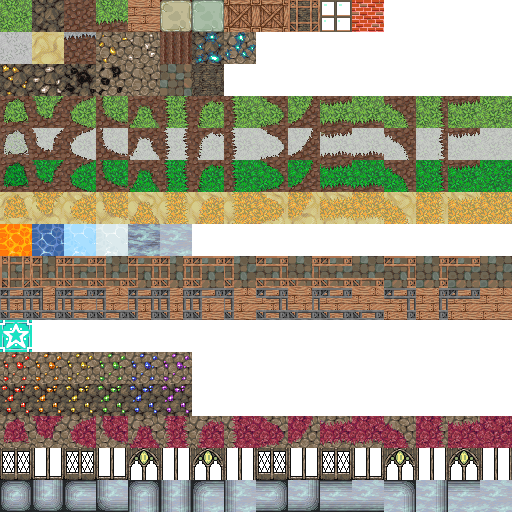
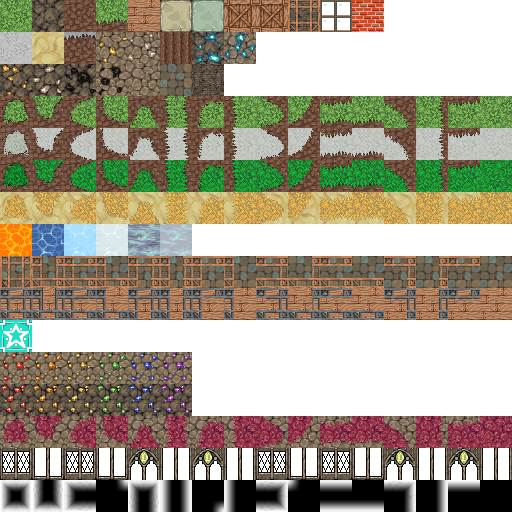
Texture and fade applied

Changed region(s): [[0.0, 0.9375, 1.0, 1.0]]

diff --git a/DwarfCorp/DwarfCorpXNA/Graphics/Primitives/VoxelListPrimitive.cs b/DwarfCorp/DwarfCorpXNA/Graphics/Primitives/VoxelListPrimitive.cs
@@ -222,19 +222,24 @@ namespace DwarfCorp
             if ((v.IsExplored && v.IsEmpty) || !v.IsVisible) return;
 
             var primitive = VoxelLibrary.GetPrimitive(v.Type);
+            BoxPrimitive secondaryPrimitive = null;
             if (v.IsExplored && primitive == null) return;
 
             if (!v.IsExplored)
-                primitive = BedrockModel;
+                secondaryPrimitive = VoxelLibrary.GetPrimitive("FogOfWarFade");
+
+            if (primitive == null) primitive = BedrockModel;
 
             var tint = v.Type.Tint;
 
             var uvs = primitive.UVs;
+            BoxPrimitive.BoxTextureCoords secondaryUvs = null;
 
             if (v.Type.HasTransitionTextures && v.IsExplored)
-            {
                 uvs = ComputeTransitionTexture(new VoxelHandle(v.Chunk.Manager.ChunkData, v.Coordinate));
-            }
+
+            if (secondaryPrimitive != null)
+                secondaryUvs = ComputeFOWTransitionTexture(v);
 
             for (int i = 0; i < 6; i++)
             {
@@ -284,7 +289,7 @@ namespace DwarfCorp
                 }
 
                 bool flippedQuad = AmbientScratchSpace[0] + AmbientScratchSpace[2] >
-                                   AmbientScratchSpace[1] + AmbientScratchSpace[3];
+                                  AmbientScratchSpace[1] + AmbientScratchSpace[3];
 
                 for (int idx = faceDescriptor.IndexOffset; idx < faceDescriptor.IndexCount +
                     faceDescriptor.IndexOffset; idx++)
@@ -295,6 +300,46 @@ namespace DwarfCorp
                     ushort offset0 = flippedQuad ? primitive.FlippedIndexes[faceDescriptor.IndexOffset] : primitive.Indexes[faceDescriptor.IndexOffset];
                     Indicies[IndexCount] = (ushort)(indexOffset + offset - offset0);
                     IndexCount++;
+                }
+
+                if (secondaryPrimitive != null)
+                {
+                    var secondaryFaceDescriptor = secondaryPrimitive.GetFace(face);
+                    var secondaryIndexOffset = VertexCount;
+
+                    for (int faceVertex = 0; faceVertex < faceDescriptor.VertexCount; faceVertex++)
+                    {
+                        var vertex = secondaryPrimitive.Vertices[secondaryFaceDescriptor.VertexOffset + faceVertex];
+                        var voxelVertex = secondaryPrimitive.Deltas[secondaryFaceDescriptor.VertexOffset + faceVertex];
+
+                        var rampOffset = Vector3.Zero;
+                        if (v.Type.CanRamp && ShouldRamp(voxelVertex, v.RampType))
+                            rampOffset = new Vector3(0, -v.Type.RampSize, 0);
+
+                        EnsureSpace(ref Verticies, VertexCount);
+
+                        var worldPosition = v.WorldPosition + vertex.Position;
+
+                        Verticies[VertexCount] = new ExtendedVertex(
+                            worldPosition + rampOffset + VertexNoise.GetNoiseVectorFromRepeatingTexture(worldPosition),
+                            new Color(255, 255, 255, 255),
+                            tint,
+                            secondaryUvs.Uvs[faceDescriptor.VertexOffset + faceVertex],
+                            secondaryUvs.Bounds[faceDescriptor.IndexOffset / 6]);
+
+                        VertexCount++;
+                    }
+
+                    for (int idx = secondaryFaceDescriptor.IndexOffset; idx < secondaryFaceDescriptor.IndexCount +
+                        secondaryFaceDescriptor.IndexOffset; idx++)
+                    {
+                        EnsureSpace(ref Indicies, IndexCount);
+
+                        ushort offset = secondaryPrimitive.Indexes[idx];
+                        ushort offset0 = secondaryPrimitive.Indexes[secondaryFaceDescriptor.IndexOffset];
+                        Indicies[IndexCount] = (ushort)(secondaryIndexOffset + offset - offset0);
+                        IndexCount++;
+                    }
                 }
             }
             // End looping faces
@@ -487,6 +532,15 @@ namespace DwarfCorp
             }
         }
 
+        private static BoxPrimitive.BoxTextureCoords ComputeFOWTransitionTexture(VoxelHandle V)
+        {
+            var type = VoxelLibrary.GetVoxelType("FogOfWarFade");
+            var primitive = VoxelLibrary.GetPrimitive(type);
+            
+            var transition = ComputeFOWTransitions(V.Chunk.Manager.ChunkData, V, type);
+            return type.TransitionTextures[transition];
+        }
+
         private static BoxTransition ComputeTransitions(
             ChunkData Data,
             VoxelHandle V,
@@ -525,6 +579,45 @@ namespace DwarfCorp
             }
         }
 
+        private static BoxTransition ComputeFOWTransitions(
+            ChunkData Data,
+            VoxelHandle V,
+            VoxelType Type)
+        {
+            if (Type.Transitions == VoxelType.TransitionType.Horizontal)
+            {
+                var value = ComputeFOWTransitionValueOnPlane(
+                    VoxelHelpers.EnumerateManhattanNeighbors2D(V.Coordinate)
+                    .Select(c => new VoxelHandle(Data, c)), Type);
+
+                return new BoxTransition()
+                {
+                    Top = (TransitionTexture)value
+                };
+            }
+            else
+            {
+                var transitionFrontBack = ComputeFOWTransitionValueOnPlane(
+                    VoxelHelpers.EnumerateManhattanNeighbors2D(V.Coordinate, ChunkManager.SliceMode.Z)
+                    .Select(c => new VoxelHandle(Data, c)),
+                    Type);
+
+                var transitionLeftRight = ComputeFOWTransitionValueOnPlane(
+                    VoxelHelpers.EnumerateManhattanNeighbors2D(V.Coordinate, ChunkManager.SliceMode.X)
+                    .Select(c => new VoxelHandle(Data, c)),
+                    Type);
+
+                return new BoxTransition()
+                {
+                    Front = (TransitionTexture)transitionFrontBack,
+                    Back = (TransitionTexture)transitionFrontBack,
+                    Left = (TransitionTexture)transitionLeftRight,
+                    Right = (TransitionTexture)transitionLeftRight
+                };
+            }
+        }
+
+
         // Todo: Reorder 2d neighbors to make this unecessary.
         private static int[] TransitionMultipliers = new int[] { 2, 8, 4, 1 };
 
@@ -535,6 +628,19 @@ namespace DwarfCorp
             foreach (var v in Neighbors)
             {
                 if (v.IsValid && !v.IsEmpty && v.Type == Type)
+                    accumulator += TransitionMultipliers[index];
+                index += 1;
+            }
+            return accumulator;
+        }
+
+        private static int ComputeFOWTransitionValueOnPlane(IEnumerable<VoxelHandle> Neighbors, VoxelType Type)
+        {
+            int index = 0;
+            int accumulator = 0;
+            foreach (var v in Neighbors)
+            {
+                if (!v.IsValid || !v.IsExplored)
                     accumulator += TransitionMultipliers[index];
                 index += 1;
             }

diff --git a/DwarfCorp/DwarfCorpXNA/Voxels/VoxelLibrary.cs b/DwarfCorp/DwarfCorpXNA/Voxels/VoxelLibrary.cs
@@ -132,6 +132,7 @@ namespace DwarfCorp
             BoxPrimitive glassCube = CreatePrimitive(graphics, cubeTexture, 32, 32, new Point(10, 0), new Point(10, 0), new Point(10, 0));
             BoxPrimitive brickCube = CreatePrimitive(graphics, cubeTexture, 32, 32, new Point(11, 0), new Point(11, 0), new Point(11, 0));
             BoxPrimitive plankCube = CreatePrimitive(graphics, cubeTexture, 32, 32, new Point(4, 0), new Point(4, 0), new Point(4, 0));
+            var fogOfWarFaceCube = CreatePrimitive(graphics, cubeTexture, 32, 32, new Point(15, 15), new Point(15, 15), new Point(15, 15));
             BoxPrimitive waterCube = CreatePrimitive(graphics, cubeTexture, cubeTexture.Width, cubeTexture.Height, new Point(0, 0), new Point(0, 0), new Point(0, 0));
             BoxPrimitive cobblestoneCube = CreatePrimitive(graphics, cubeTexture, 32, 32, new Point(5, 2), new Point(9, 0), new Point(5, 2));
             BoxPrimitive magicCube = CreatePrimitive(graphics, cubeTexture, 32, 32, new Point(0, 10), new Point(0, 10), new Point(0, 10));
@@ -238,6 +239,19 @@ namespace DwarfCorp
             RegisterType(stockpileType, plankCube);
 
             CreateTransitionUVs(graphics, cubeTexture, 32, 32, new Point(0, 9), new Point(9, 0), new Point(4, 0), stockpileType.TransitionTextures);
+
+            var fogOfWarFadeType = new VoxelType
+            {
+                Name = "FogOfWarFade",
+                ReleasesResource = false,
+                CanRamp = false,
+                IsBuildable = false,
+                HasTransitionTextures = true,
+                Transitions = VoxelType.TransitionType.Horizontal,
+            };
+            RegisterType(fogOfWarFadeType, fogOfWarFaceCube);
+            CreateTransitionUVs(graphics, cubeTexture, 32, 32, new Point(0, 15), new Point(0, 15), new Point(0, 15), fogOfWarFadeType.TransitionTextures);
+
             
             VoxelType plankType = new VoxelType
             {

diff --git a/DwarfCorp/DwarfCorpXNA/Components/AI/CreatureAI.cs b/DwarfCorp/DwarfCorpXNA/Components/AI/CreatureAI.cs
@@ -732,7 +732,10 @@ namespace DwarfCorp
                         Faction.Designations.AddEntityDesignation(harvestablePlot.Plant, DesignationType.Chop);
                         return task;
                     }
+                }
 
+                if (Stats.CurrentClass.HasAction(GameMaster.ToolMode.Plant) && MathFunctions.RandEvent(0.1f) && Faction == World.PlayerFaction)
+                {
                     var plantablePlot = Faction.Designations.EnumerateDesignations(DesignationType._InactiveFarm)
                         .Where(d =>
                         {
@@ -765,7 +768,7 @@ namespace DwarfCorp
 
                             plantablePlot.Farmer = this;
                         }
-                    }                 
+                    }
                 }
 
                 // Find a room to train in, if applicable.
